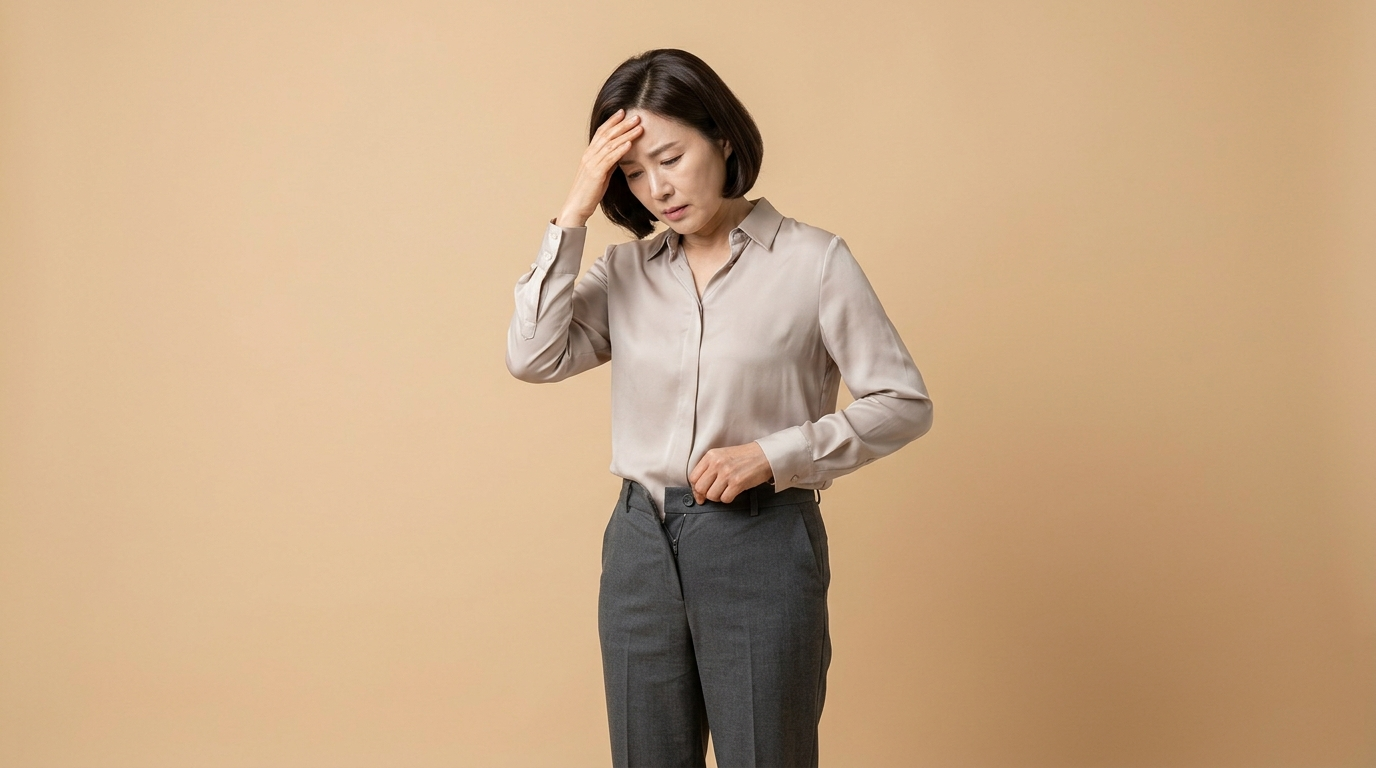
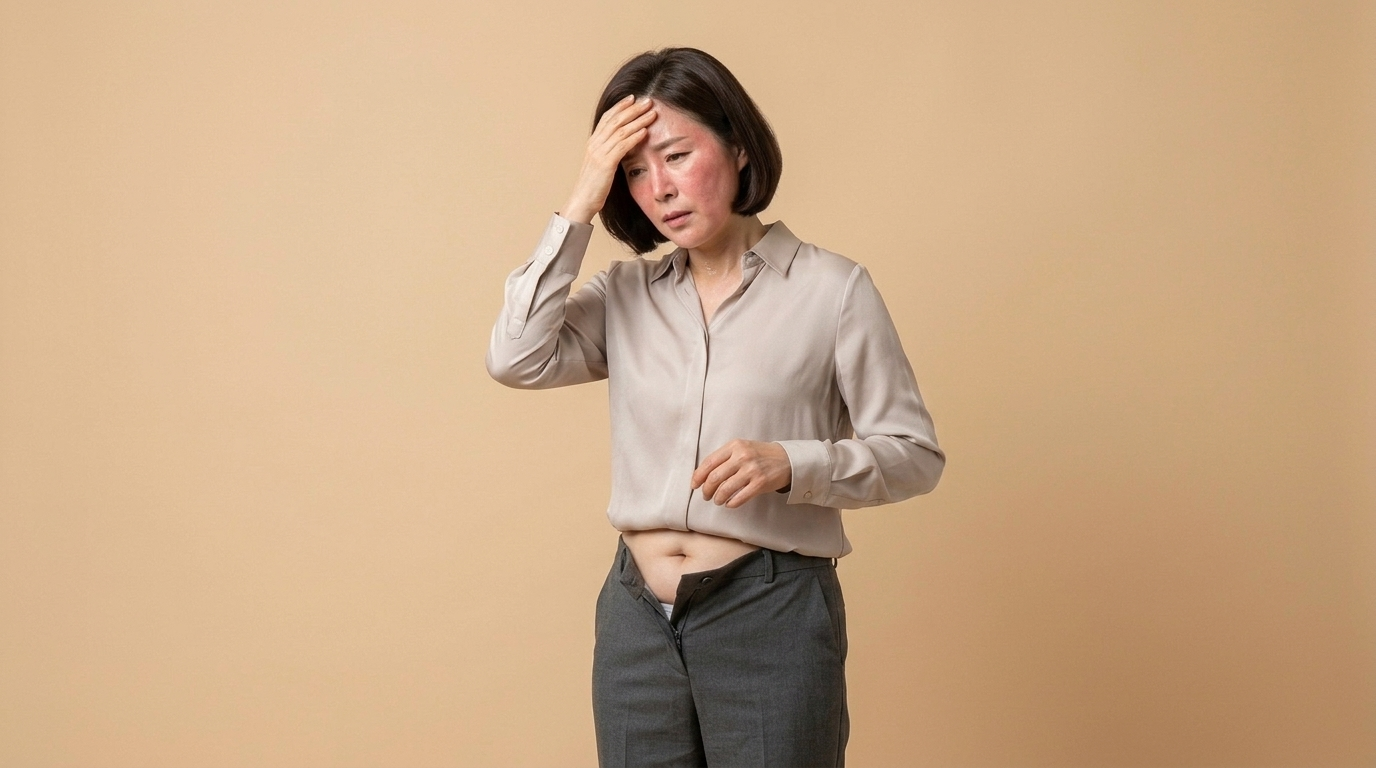
Update diet-zero Card 9 menopause woman image with flushed red face (hot flash)

Changed region(s): [[0.3438, 0.0625, 0.6875, 1.0]]

diff --git a/homepage/wordpress-diet.html b/homepage/wordpress-diet.html
@@ -6049,7 +6049,7 @@
         <article class="project-details-item is-motion-plate" data-fullscreen>
           <span class="tiny-card-num-badge">09</span>
           <div class="plate-media-inner">
-            <div class="motion-video-stage" data-frames="https://raw.githubusercontent.com/ajwei0508-cpu/bareun-homepage/main/homepage/diet_minimal_card9_trouble_1_childcare.jpg|https://raw.githubusercontent.com/ajwei0508-cpu/bareun-homepage/main/homepage/diet_minimal_card9_trouble_2_wedding.jpg|https://raw.githubusercontent.com/ajwei0508-cpu/bareun-homepage/main/homepage/diet_minimal_card9_trouble_3_menopause.jpg" data-duration="6.6">
+            <div class="motion-video-stage" data-frames="https://raw.githubusercontent.com/ajwei0508-cpu/bareun-homepage/main/homepage/diet_minimal_card9_trouble_1_childcare.jpg|https://raw.githubusercontent.com/ajwei0508-cpu/bareun-homepage/main/homepage/diet_minimal_card9_trouble_2_wedding.jpg|https://raw.githubusercontent.com/ajwei0508-cpu/bareun-homepage/main/homepage/diet_minimal_card9_trouble_3_menopause_v2.jpg" data-duration="6.6">
               <div class="motion-frame-layer frame-layer-a" style="background-image: url('https://raw.githubusercontent.com/ajwei0508-cpu/bareun-homepage/main/homepage/diet_minimal_card9_trouble_1_childcare.jpg');"></div>
               <div class="motion-frame-layer frame-layer-b" style="background-image: url('https://raw.githubusercontent.com/ajwei0508-cpu/bareun-homepage/main/homepage/diet_minimal_card9_trouble_2_wedding.jpg'); opacity: 0;"></div>
               <canvas class="plate-fx-canvas" data-fx="sunlight-bokeh"></canvas>

diff --git a/homepage/diet-zero.html b/homepage/diet-zero.html
@@ -6032,7 +6032,7 @@
         <article class="project-details-item is-motion-plate" data-fullscreen>
           <span class="tiny-card-num-badge">09</span>
           <div class="plate-media-inner">
-            <div class="motion-video-stage" data-frames="diet_minimal_card9_trouble_1_childcare.jpg|diet_minimal_card9_trouble_2_wedding.jpg|diet_minimal_card9_trouble_3_menopause.jpg" data-duration="6.6">
+            <div class="motion-video-stage" data-frames="diet_minimal_card9_trouble_1_childcare.jpg|diet_minimal_card9_trouble_2_wedding.jpg|diet_minimal_card9_trouble_3_menopause_v2.jpg" data-duration="6.6">
               <div class="motion-frame-layer frame-layer-a" style="background-image: url('diet_minimal_card9_trouble_1_childcare.jpg');"></div>
               <div class="motion-frame-layer frame-layer-b" style="background-image: url('diet_minimal_card9_trouble_2_wedding.jpg'); opacity: 0;"></div>
               <canvas class="plate-fx-canvas" data-fx="sunlight-bokeh"></canvas>

diff --git a/homepage/build-story-detail-pages.js b/homepage/build-story-detail-pages.js
@@ -546,7 +546,7 @@ const PAGES = [
         frames: [
           'diet_minimal_card9_trouble_1_childcare.jpg',
           'diet_minimal_card9_trouble_2_wedding.jpg',
-          'diet_minimal_card9_trouble_3_menopause.jpg'
+          'diet_minimal_card9_trouble_3_menopause_v2.jpg'
         ],
         fx: 'sunlight-bokeh',
         durationSec: 6.6
